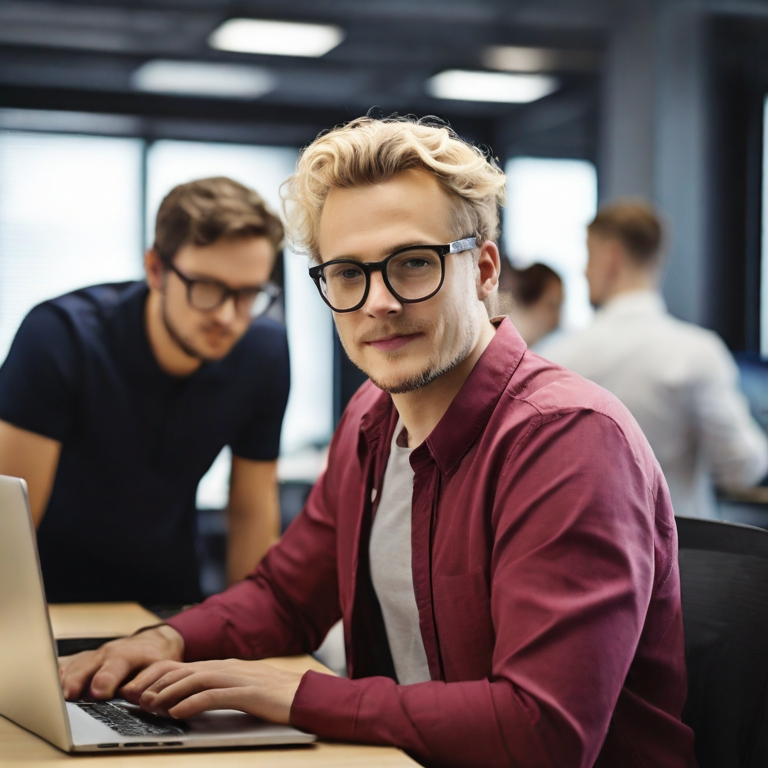
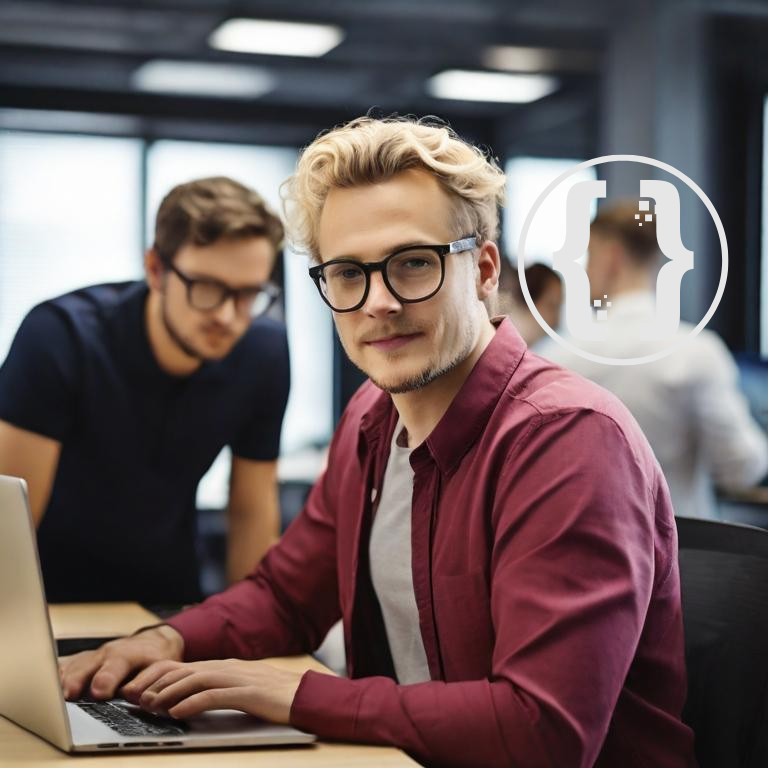
feat: update image and new component

diff --git a/src/components/shared/LogoGaraje88.jsx b/src/components/shared/LogoGaraje88.jsx
@@ -1,0 +1,39 @@
+import * as React from "react";
+const SVGComponent = (props) => (
+  <svg
+    xmlns="http://www.w3.org/2000/svg"
+    width={50}
+    height={50}
+    viewBox="0 0 50 50"
+    {...props}
+  >
+    <path d="M0 0h50v50H0z" fill="#FEFEFE" />
+    <path
+      d="M0 0h50v50H0zm23.01 4.064 -0.076 0.009q-0.117 0.013 -0.234 0.027l-0.077 0.009c-0.749 0.087 -1.487 0.193 -2.223 0.358l-0.099 0.022c-0.405 0.09 -0.805 0.197 -1.203 0.316q-0.102 0.03 -0.204 0.06C16.567 5.541 14.366 6.674 12.433 8.133l-0.057 0.043A20.2 20.2 0 0 0 11.633 8.767l-0.052 0.043c-0.224 0.186 -0.443 0.376 -0.657 0.574 -0.047 0.043 -0.095 0.086 -0.144 0.128 -0.223 0.189 -0.428 0.397 -0.634 0.604a91.8 91.8 0 0 1 -0.195 0.195C9.749 10.513 9.551 10.715 9.367 10.933q-0.081 0.089 -0.163 0.177a9.9 9.9 0 0 0 -0.389 0.455 22.033 22.033 0 0 1 -0.181 0.221C7.936 12.632 7.312 13.548 6.767 14.5l-0.042 0.074A24.567 24.567 0 0 0 6.433 15.1l-0.047 0.088c-0.753 1.404 -1.362 2.916 -1.734 4.468a13.967 13.967 0 0 1 -0.054 0.217 23.2 23.2 0 0 0 -0.081 0.324q-0.018 0.074 -0.036 0.147c-0.185 0.75 -0.297 1.513 -0.389 2.279l-0.008 0.068c-0.091 0.751 -0.095 1.507 -0.098 2.263l0 0.079c-0.002 0.759 0.023 1.508 0.104 2.263l0.012 0.116c0.056 0.512 0.142 1.015 0.244 1.519 0.029 0.144 0.057 0.287 0.084 0.431C5.024 32.408 6.413 35.365 8.333 37.8q0.044 0.057 0.088 0.114c0.313 0.404 0.646 0.789 0.995 1.164a9.967 9.967 0 0 1 0.113 0.126c0.202 0.228 0.415 0.445 0.631 0.66q0.09 0.089 0.179 0.179c0.193 0.193 0.387 0.381 0.595 0.557q0.089 0.081 0.177 0.163c0.18 0.164 0.366 0.319 0.556 0.471l0.115 0.094c2.22 1.796 4.794 3.152 7.551 3.906l0.153 0.043c0.51 0.141 1.029 0.249 1.547 0.357l0.086 0.018c0.52 0.107 1.054 0.154 1.581 0.215l0.188 0.022c0.449 0.052 0.894 0.083 1.346 0.083l0.131 0c0.138 0 0.276 0 0.414 0h0.071c0.696 0 1.389 -0.006 2.083 -0.073l0.103 -0.009c1.195 -0.109 2.429 -0.304 3.576 -0.664 0.107 -0.033 0.215 -0.064 0.323 -0.095 1.704 -0.494 3.35 -1.206 4.864 -2.132l0.084 -0.051c0.627 -0.384 1.235 -0.799 1.816 -1.249l0.061 -0.047c0.268 -0.206 0.528 -0.42 0.784 -0.64a23.833 23.833 0 0 1 0.166 -0.14c0.428 -0.36 0.83 -0.746 1.227 -1.14l0.069 -0.069a7.533 7.533 0 0 0 0.37 -0.399c0.092 -0.106 0.19 -0.207 0.286 -0.309 0.189 -0.201 0.366 -0.407 0.537 -0.623q0.049 -0.06 0.098 -0.119c0.918 -1.111 1.7 -2.339 2.369 -3.614l0.05 -0.095c0.424 -0.815 0.769 -1.659 1.076 -2.523 0.038 -0.106 0.076 -0.212 0.115 -0.317 0.161 -0.445 0.285 -0.895 0.398 -1.354 0.03 -0.117 0.062 -0.234 0.094 -0.351 0.069 -0.257 0.122 -0.516 0.172 -0.777 0.014 -0.076 0.029 -0.152 0.044 -0.228 0.249 -1.291 0.368 -2.58 0.369 -3.895q0 -0.112 0 -0.224c0.001 -0.545 -0.017 -1.085 -0.064 -1.628l-0.006 -0.072c-0.038 -0.426 -0.097 -0.848 -0.165 -1.27 -0.014 -0.092 -0.027 -0.184 -0.039 -0.277 -0.114 -0.881 -0.32 -1.758 -0.594 -2.603a9.433 9.433 0 0 1 -0.107 -0.355c-0.744 -2.635 -2.222 -5.143 -3.995 -7.209a23.833 23.833 0 0 1 -0.14 -0.166c-0.365 -0.434 -0.757 -0.842 -1.157 -1.243l-0.074 -0.074a7.767 7.767 0 0 0 -0.414 -0.384c-0.093 -0.081 -0.183 -0.166 -0.273 -0.25a8.833 8.833 0 0 0 -0.488 -0.422 15.1 15.1 0 0 1 -0.228 -0.188c-0.899 -0.753 -1.884 -1.421 -2.907 -1.994l-0.09 -0.051c-1.021 -0.572 -2.072 -1.05 -3.174 -1.445 -0.11 -0.04 -0.218 -0.082 -0.327 -0.125 -0.167 -0.065 -0.334 -0.12 -0.507 -0.165l-0.155 -0.042 -0.076 -0.02a19.833 19.833 0 0 1 -0.314 -0.088l-0.115 -0.033a12.067 12.067 0 0 1 -0.21 -0.063C29.265 4.335 28.078 4.172 26.933 4.067l-0.106 -0.01c-0.681 -0.064 -1.364 -0.062 -2.048 -0.063l-0.071 0q-0.237 0 -0.474 0.001l-0.122 0c-0.369 0.002 -0.736 0.027 -1.103 0.07"
+      fill="#FEFEFE"
+    />
+    <path
+      d="m19.146 9.163 0.189 0c0.231 0 0.463 0.001 0.694 0.001L21.6 9.167v3.4l-1.633 0.033c-0.442 0.037 -0.879 0.087 -1.193 0.432 -0.424 0.543 -0.379 1.239 -0.379 1.892l0 0.172q0 0.184 -0.001 0.368 0 0.293 -0.001 0.586l-0.001 0.202 0 0.102c-0.001 0.454 -0.003 0.908 -0.003 1.362q0 0.461 -0.002 0.922c-0.001 0.162 -0.001 0.324 -0.001 0.486 0.001 1.742 -0.131 3.646 -1.408 4.962a4 4 0 0 0 -0.104 0.114C16.43 24.688 15.637 25.06 15 25.2l0.117 0.035c0.564 0.19 1.033 0.472 1.483 0.865l0.067 0.058c0.941 0.882 1.437 2.243 1.623 3.492l0.012 0.08c0.078 0.566 0.07 1.138 0.068 1.709l0 0.249q0 0.324 -0.001 0.649 0 0.332 -0.001 0.664 -0.001 0.65 -0.002 1.299h-1.567v1.967h1.6l0.133 0.6c0.117 0.355 0.261 0.553 0.598 0.724 0.748 0.315 1.778 0.194 2.502 0.209v3.4l-1.373 0.004 -0.427 0.002c-0.681 0.002 -1.355 -0.007 -2.034 -0.073l-0.083 -0.008c-0.147 -0.014 -0.292 -0.032 -0.438 -0.052l-0.126 -0.017c-0.993 -0.144 -1.97 -0.498 -2.61 -1.312 -0.161 -0.225 -0.289 -0.462 -0.41 -0.71 -0.013 -0.027 -0.027 -0.054 -0.04 -0.082 -0.483 -1.096 -0.436 -2.429 -0.438 -3.602 0 -0.152 -0.001 -0.304 -0.002 -0.457 -0.002 -0.386 -0.003 -0.771 -0.004 -1.157 -0.001 -0.417 -0.002 -0.833 -0.004 -1.25a150.267 150.267 0 0 1 -0.001 -0.452c0.013 -2.379 0.013 -2.379 -1.048 -4.441 -0.426 -0.405 -0.959 -0.581 -1.529 -0.646C10.967 26.933 10.967 26.933 10.933 26.9a1.867 1.867 0 0 1 -0.004 -0.134l0 -0.088 0 -0.097v-0.101c0 -0.111 0 -0.223 0.001 -0.334l0 -0.231q0 -0.304 0.001 -0.609 0 -0.31 0.001 -0.621 0.001 -0.609 0.002 -1.219l0.129 -0.019 0.171 -0.026 0.085 -0.012c0.621 -0.095 1.155 -0.424 1.532 -0.925 0.352 -0.526 0.547 -1.142 0.658 -1.76l0.015 -0.084c0.125 -0.761 0.12 -1.528 0.121 -2.297 0 -0.158 0.001 -0.316 0.002 -0.474 0.002 -0.4 0.003 -0.801 0.004 -1.201 0.001 -0.433 0.002 -0.865 0.004 -1.298q0.001 -0.235 0.001 -0.469c0.001 -0.648 0.004 -1.291 0.078 -1.935l0.011 -0.094C13.864 11.826 14.201 10.794 15.033 10.1c0.838 -0.645 1.877 -0.81 2.9 -0.9l0.098 -0.009c0.371 -0.031 0.742 -0.028 1.114 -0.027"
+      fill="#536471"
+    />
+    <path
+      d="m28.4 9 1.444 -0.004 0.45 -0.002c3.679 -0.009 3.679 -0.009 4.95 1.204 0.442 0.466 0.69 1.058 0.856 1.669l0.031 0.109c0.172 0.671 0.207 1.383 0.209 2.073l0.001 0.173q0.001 0.185 0.002 0.371 0.001 0.294 0.003 0.588 0.003 0.624 0.005 1.248 0.003 0.673 0.006 1.347 0.001 0.291 0.002 0.583 0.001 0.182 0.002 0.364 0 0.084 0.001 0.167c0.002 0.719 0.07 1.411 0.239 2.109l0.024 0.102c0.183 0.729 0.557 1.427 1.209 1.831 0.404 0.209 0.782 0.292 1.233 0.333v3.467l-0.667 0.1c-0.655 0.218 -1.147 0.616 -1.467 1.233 -0.467 0.935 -0.577 2.022 -0.576 3.056l-0.001 0.167q-0.001 0.178 -0.001 0.356c0 0.189 -0.001 0.377 -0.002 0.566a812.067 812.067 0 0 0 -0.004 1.203c-0.001 0.432 -0.002 0.864 -0.004 1.296q-0.001 0.235 -0.001 0.469c-0.004 3.543 -0.004 3.543 -1.211 4.753 -1.167 1.076 -2.992 1.108 -4.484 1.103q-0.087 0 -0.175 0c-0.212 0 -0.423 -0.001 -0.635 -0.001L28.4 41.033v-3.4l1.433 -0.033c0.807 -0.055 0.807 -0.055 1.448 -0.49 0.197 -0.282 0.256 -0.619 0.288 -0.954l0.009 -0.088c0.027 -0.293 0.031 -0.584 0.03 -0.878l0 -0.173q0 -0.184 0 -0.367c0 -0.195 0 -0.39 0.001 -0.585q0.002 -0.83 0.003 -1.661 0 -0.46 0.002 -0.92c0.001 -0.161 0.001 -0.323 0.001 -0.484 -0.002 -1.009 0.052 -1.987 0.318 -2.967l0.018 -0.068c0.147 -0.528 0.391 -1.079 0.748 -1.499l0.071 -0.084c0.074 -0.085 0.151 -0.167 0.229 -0.249l0.076 -0.083c0.476 -0.505 1.152 -0.851 1.818 -1.029 0.072 -0.014 0.072 -0.014 0.107 -0.054l-0.06 -0.013c-0.752 -0.179 -1.426 -0.657 -1.906 -1.254l-0.069 -0.086C32.635 23.192 32.375 22.725 32.167 22.233l-0.052 -0.12c-0.438 -1.068 -0.487 -2.218 -0.485 -3.356l0 -0.251q0 -0.328 0.001 -0.656 0 -0.336 0.001 -0.671 0.001 -0.656 0.002 -1.313h1.567v-1.933h-1.6l-0.1 -0.533c-0.117 -0.338 -0.243 -0.594 -0.569 -0.762 -0.749 -0.347 -1.78 -0.222 -2.531 -0.237z"
+      fill="#1D9BF0"
+    />
+    <path
+      d="m26.933 4.067 0.066 0.006c1.201 0.117 2.424 0.297 3.578 0.655 0.119 0.037 0.239 0.071 0.359 0.105q0.116 0.033 0.231 0.067l0.112 0.032c1.125 0.338 2.205 0.812 3.254 1.334l0.089 0.044c1.264 0.63 2.467 1.442 3.553 2.342 0.084 0.069 0.169 0.138 0.254 0.206 0.143 0.117 0.282 0.239 0.418 0.364a14.7 14.7 0 0 0 0.214 0.189c0.342 0.299 0.669 0.616 0.991 0.936l0.074 0.074a7.833 7.833 0 0 1 0.388 0.418c0.07 0.081 0.142 0.159 0.215 0.237 0.135 0.148 0.263 0.299 0.389 0.455q0.09 0.111 0.181 0.221c0.739 0.894 1.403 1.867 1.968 2.881l0.054 0.097c0.129 0.233 0.255 0.468 0.379 0.703l0.048 0.092c0.626 1.2 1.117 2.484 1.463 3.792q0.029 0.109 0.058 0.217c0.033 0.122 0.065 0.244 0.097 0.366l0.019 0.072c0.208 0.785 0.338 1.578 0.434 2.384q0.02 0.167 0.042 0.335c0.014 0.114 0.026 0.228 0.038 0.343l0.008 0.079c0.063 0.616 0.073 1.23 0.073 1.849l0 0.078c0.001 1.241 -0.075 2.476 -0.327 3.694a14.433 14.433 0 0 0 -0.06 0.317 18.367 18.367 0 0 1 -0.242 1.132l-0.027 0.109c-0.262 1.033 -0.624 2.071 -1.059 3.043l-0.043 0.098c-0.353 0.793 -0.741 1.559 -1.19 2.302l-0.056 0.093c-0.498 0.824 -1.051 1.609 -1.665 2.351 -0.063 0.077 -0.124 0.155 -0.186 0.233 -0.118 0.149 -0.245 0.289 -0.374 0.428a12.067 12.067 0 0 0 -0.198 0.223c-0.304 0.349 -0.628 0.681 -0.955 1.01l-0.069 0.069a7.633 7.633 0 0 1 -0.404 0.374c-0.081 0.07 -0.159 0.143 -0.238 0.215a9.9 9.9 0 0 1 -0.455 0.389 22.033 22.033 0 0 0 -0.221 0.181C35.785 43.304 32.864 44.722 26.467 45.933l-0.13 0.01c-0.454 0.031 -0.908 0.03 -1.363 0.03q-0.137 0 -0.275 0.001c-0.778 0.004 -1.552 -0.018 -2.322 -0.14q-0.11 -0.017 -0.219 -0.033l-0.11 -0.017a11.1 11.1 0 0 0 -0.308 -0.039c-0.3 -0.035 -0.592 -0.092 -0.886 -0.157l-0.146 -0.032q-0.142 -0.031 -0.283 -0.062 -0.152 -0.033 -0.305 -0.065c-0.345 -0.073 -0.682 -0.165 -1.02 -0.266a44.967 44.967 0 0 0 -0.209 -0.062c-0.937 -0.276 -1.837 -0.628 -2.725 -1.035l-0.092 -0.042c-0.996 -0.457 -1.978 -1.004 -2.871 -1.641a18.967 18.967 0 0 0 -0.214 -0.15c-0.481 -0.333 -0.941 -0.693 -1.39 -1.067l-0.051 -0.042a17.6 17.6 0 0 1 -0.726 -0.64 9.833 9.833 0 0 0 -0.126 -0.113c-0.228 -0.202 -0.445 -0.415 -0.66 -0.63a77.1 77.1 0 0 0 -0.179 -0.179c-0.193 -0.193 -0.381 -0.387 -0.557 -0.595q-0.081 -0.089 -0.163 -0.177c-0.164 -0.18 -0.319 -0.366 -0.471 -0.556l-0.042 -0.053c-0.383 -0.48 -0.75 -0.97 -1.091 -1.48l-0.044 -0.065c-0.486 -0.73 -0.922 -1.489 -1.323 -2.268l-0.049 -0.096c-0.495 -0.972 -0.868 -2.002 -1.197 -3.041 -0.019 -0.059 -0.038 -0.118 -0.057 -0.177 -0.24 -0.747 -0.407 -1.505 -0.543 -2.278q-0.02 -0.109 -0.044 -0.217c-0.252 -1.173 -0.296 -2.388 -0.293 -3.583l0 -0.076c0.001 -0.902 0.032 -1.803 0.162 -2.697l0.022 -0.158c0.021 -0.148 0.043 -0.296 0.065 -0.444l0.017 -0.113A16.983 16.983 0 0 1 4.767 19.2l0.028 -0.094C5.258 17.535 5.886 16.023 6.7 14.6l0.045 -0.079C7.187 13.749 7.692 13.005 8.233 12.3l0.049 -0.064c0.205 -0.267 0.418 -0.526 0.637 -0.781a23.833 23.833 0 0 0 0.14 -0.166c0.406 -0.482 0.845 -0.931 1.29 -1.377l0.057 -0.057C10.609 9.652 10.813 9.452 11.033 9.267a72.933 72.933 0 0 0 0.108 -0.094C11.572 8.801 12.007 8.435 12.467 8.1l0.131 -0.097A19.067 19.067 0 0 1 14.333 6.867l0.077 -0.045C15.884 5.961 17.456 5.264 19.1 4.8l0.103 -0.03C19.808 4.598 20.418 4.46 21.033 4.333l0.085 -0.018c0.451 -0.093 0.911 -0.14 1.369 -0.191a23.933 23.933 0 0 0 0.448 -0.055c1.299 -0.159 2.698 -0.133 3.999 -0.003m-4.531 1.329 -0.12 0.017C21.66 5.505 21.046 5.628 20.433 5.767l-0.092 0.02c-0.363 0.081 -0.719 0.175 -1.072 0.292 -0.121 0.04 -0.243 0.076 -0.366 0.111 -0.307 0.088 -0.606 0.191 -0.903 0.306l-0.072 0.028C15.833 7.331 13.918 8.493 12.2 9.933l-0.061 0.051c-0.452 0.377 -0.876 0.784 -1.293 1.199l-0.074 0.074a7.8 7.8 0 0 0 -0.386 0.416c-0.07 0.081 -0.142 0.159 -0.215 0.237a9.867 9.867 0 0 0 -0.389 0.454 20.767 20.767 0 0 1 -0.182 0.222C8.742 13.625 8.025 14.776 7.4 15.967l-0.05 0.096c-0.595 1.136 -1.064 2.34 -1.392 3.581a13.6 13.6 0 0 1 -0.069 0.249C5.226 22.193 5.085 24.66 5.333 27.033l0.011 0.109c0.024 0.22 0.055 0.439 0.089 0.658l0.01 0.065c0.097 0.633 0.205 1.259 0.367 1.88 0.022 0.083 0.043 0.166 0.063 0.25C6.567 32.755 7.913 35.349 9.733 37.533l0.049 0.059c0.206 0.249 0.42 0.489 0.64 0.726 0.044 0.048 0.087 0.096 0.131 0.144 0.18 0.199 0.365 0.392 0.554 0.582l0.066 0.066a7.533 7.533 0 0 0 0.398 0.368c0.093 0.081 0.183 0.166 0.274 0.251a8.9 8.9 0 0 0 0.497 0.429c0.082 0.067 0.162 0.135 0.242 0.205 0.258 0.223 0.531 0.421 0.808 0.617a27.167 27.167 0 0 1 0.214 0.154c0.569 0.409 1.163 0.778 1.775 1.118 0.085 0.048 0.17 0.096 0.255 0.145 1.33 0.753 2.802 1.323 4.285 1.684q0.107 0.026 0.215 0.054 0.161 0.041 0.322 0.08 0.084 0.02 0.168 0.041c0.641 0.157 1.284 0.254 1.938 0.335 0.07 0.009 0.14 0.018 0.21 0.027 0.727 0.094 1.459 0.09 2.19 0.09l0.076 0c1.068 0.001 2.137 -0.026 3.189 -0.236l0.18 -0.035 0.095 -0.019a32 32 0 0 1 0.308 -0.058c0.852 -0.157 1.671 -0.383 2.491 -0.661l0.123 -0.042c1.646 -0.563 3.267 -1.336 4.685 -2.35 0.058 -0.041 0.116 -0.082 0.175 -0.123 0.441 -0.31 0.871 -0.638 1.284 -0.985l0.054 -0.045c0.271 -0.228 0.534 -0.464 0.794 -0.706 0.07 -0.065 0.141 -0.13 0.212 -0.194 0.241 -0.219 0.471 -0.443 0.684 -0.691 0.056 -0.063 0.114 -0.122 0.174 -0.181 0.124 -0.122 0.237 -0.251 0.35 -0.383l0.091 -0.104c0.216 -0.249 0.425 -0.502 0.625 -0.763q0.053 -0.069 0.106 -0.137c1.847 -2.387 3.148 -5.229 3.832 -8.944 0.016 -0.107 0.033 -0.214 0.05 -0.32q0.015 -0.099 0.029 -0.198l0.016 -0.111c0.103 -0.754 0.127 -1.51 0.124 -2.27 -0.001 -0.111 -0.001 -0.223 -0.001 -0.334 0 -0.744 -0.025 -1.475 -0.117 -2.213l-0.011 -0.092c-0.125 -1.019 -0.316 -2.028 -0.612 -3.012l-0.03 -0.103c-0.725 -2.452 -1.918 -4.8 -3.555 -6.772 -0.069 -0.083 -0.137 -0.168 -0.205 -0.252 -0.128 -0.156 -0.263 -0.306 -0.399 -0.455a10.367 10.367 0 0 1 -0.192 -0.216c-0.326 -0.374 -0.662 -0.744 -1.04 -1.067 -0.087 -0.077 -0.172 -0.156 -0.256 -0.236 -0.191 -0.18 -0.384 -0.356 -0.589 -0.52a12.7 12.7 0 0 1 -0.227 -0.186c-0.311 -0.261 -0.63 -0.505 -0.961 -0.738a31.467 31.467 0 0 1 -0.237 -0.17C35.644 8.334 34.976 7.944 34.3 7.567l-0.068 -0.038C33.419 7.07 32.544 6.715 31.667 6.4l-0.121 -0.044c-0.544 -0.197 -1.089 -0.363 -1.651 -0.499q-0.12 -0.029 -0.24 -0.061c-0.762 -0.199 -1.541 -0.326 -2.321 -0.429l-0.126 -0.017c-0.707 -0.09 -1.416 -0.092 -2.127 -0.093q-0.112 0 -0.224 0c-0.82 -0.002 -1.641 0.018 -2.454 0.14"
+      fill="#546571"
+    />
+    <path d="M16 37.567h2.767v2.767h-2.767z" fill="#FDFDFD" />
+    <path d="M31.233 9.867h2.767v2.733h-2.767z" fill="#FDFEFE" />
+    <path d="M19.833 35h2v2h-2z" fill="#556672" />
+    <path d="M28.167 13.2h2v2h-2z" fill="#209CF0" />
+    <path d="M19.2 32.867h1.433v1.433h-1.433z" fill="#566773" />
+    <path d="M29.367 15.9h1.433v1.4h-1.433z" fill="#1F9CF0" />
+    <path d="M21.7 33.3h1v1h-1z" fill="#586875" />
+    <path d="M27.333 15.9h0.967v0.967h-0.967z" fill="#1D9BF0" />
+    <path d="M21.2 31.967h0.633v0.633h-0.633z" fill="#576774" />
+    <path d="M28.167 17.6h0.633v0.633h-0.633z" fill="#1D9BF0" />
+  </svg>
+);
+export default SVGComponent;
